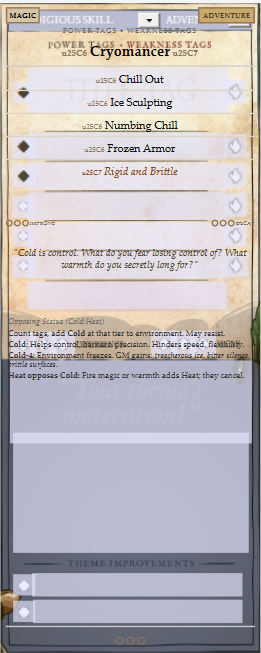
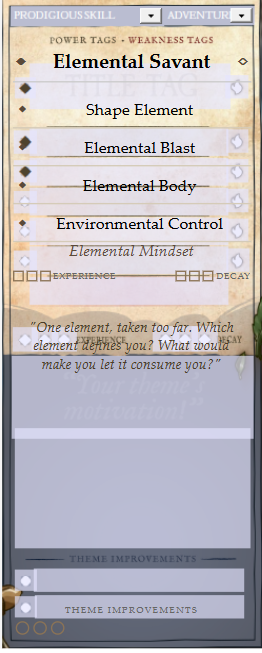
Remove diamond characters from HTML - they're in background image

diff --git a/character_themes.html b/character_themes.html
@@ -205,15 +205,13 @@
 
         <div class="theme-card">
             <div class="title-tag">
-                <span class="diamond-left">&#9670;</span>
                 Ragebound Berserker
-                <span class="diamond-right">&#9671;</span>
             </div>
             <div class="power-tags">
-                <div class="power-tag"><span class="diamond">&#9670;</span>Enraged Strength</div>
-                <div class="power-tag"><span class="diamond">&#9670;</span>Ignore Pain</div>
-                <div class="power-tag"><span class="diamond">&#9670;</span>Smash Through</div>
-                <div class="power-tag"><span class="diamond">&#9670;</span>Intimidating Presence</div>
+                <div class="power-tag">Enraged Strength</div>
+                <div class="power-tag">Ignore Pain</div>
+                <div class="power-tag">Smash Through</div>
+                <div class="power-tag">Intimidating Presence</div>
             </div>
             <div class="weakness-tag">Cannot Back Down</div>
             <div class="trackers">
@@ -241,15 +239,13 @@
 
         <div class="theme-card">
             <div class="title-tag">
-                <span class="diamond-left">&#9670;</span>
                 Chaos Channeler
-                <span class="diamond-right">&#9671;</span>
             </div>
             <div class="power-tags">
-                <div class="power-tag"><span class="diamond">&#9670;</span>Reality Glitch</div>
-                <div class="power-tag"><span class="diamond">&#9670;</span>Wild Surge</div>
-                <div class="power-tag"><span class="diamond">&#9670;</span>Unlikely Success</div>
-                <div class="power-tag"><span class="diamond">&#9670;</span>Spell Twist</div>
+                <div class="power-tag">Reality Glitch</div>
+                <div class="power-tag">Wild Surge</div>
+                <div class="power-tag">Unlikely Success</div>
+                <div class="power-tag">Spell Twist</div>
             </div>
             <div class="weakness-tag">Backfires</div>
             <div class="trackers">
@@ -277,15 +273,13 @@
 
         <div class="theme-card">
             <div class="title-tag">
-                <span class="diamond-left">&#9670;</span>
                 Cryomancer
-                <span class="diamond-right">&#9671;</span>
             </div>
             <div class="power-tags">
-                <div class="power-tag"><span class="diamond">&#9670;</span>Chill Out</div>
-                <div class="power-tag"><span class="diamond">&#9670;</span>Ice Sculpting</div>
-                <div class="power-tag"><span class="diamond">&#9670;</span>Numbing Chill</div>
-                <div class="power-tag"><span class="diamond">&#9670;</span>Frozen Armor</div>
+                <div class="power-tag">Chill Out</div>
+                <div class="power-tag">Ice Sculpting</div>
+                <div class="power-tag">Numbing Chill</div>
+                <div class="power-tag">Frozen Armor</div>
             </div>
             <div class="weakness-tag">Rigid and Brittle</div>
             <div class="trackers">
@@ -313,15 +307,13 @@
 
         <div class="theme-card">
             <div class="title-tag">
-                <span class="diamond-left">&#9670;</span>
                 Elemental Savant
-                <span class="diamond-right">&#9671;</span>
             </div>
             <div class="power-tags">
-                <div class="power-tag"><span class="diamond">&#9670;</span>Shape Element</div>
-                <div class="power-tag"><span class="diamond">&#9670;</span>Elemental Blast</div>
-                <div class="power-tag"><span class="diamond">&#9670;</span>Elemental Body</div>
-                <div class="power-tag"><span class="diamond">&#9670;</span>Environmental Control</div>
+                <div class="power-tag">Shape Element</div>
+                <div class="power-tag">Elemental Blast</div>
+                <div class="power-tag">Elemental Body</div>
+                <div class="power-tag">Environmental Control</div>
             </div>
             <div class="weakness-tag">Elemental Mindset</div>
             <div class="trackers">
@@ -349,15 +341,13 @@
 
         <div class="theme-card">
             <div class="title-tag">
-                <span class="diamond-left">&#9670;</span>
                 Name-Binder
-                <span class="diamond-right">&#9671;</span>
             </div>
             <div class="power-tags">
-                <div class="power-tag"><span class="diamond">&#9670;</span>True Name</div>
-                <div class="power-tag"><span class="diamond">&#9670;</span>Rename the World</div>
-                <div class="power-tag"><span class="diamond">&#9670;</span>Words That Cut</div>
-                <div class="power-tag"><span class="diamond">&#9670;</span>Naming Curse</div>
+                <div class="power-tag">True Name</div>
+                <div class="power-tag">Rename the World</div>
+                <div class="power-tag">Words That Cut</div>
+                <div class="power-tag">Naming Curse</div>
             </div>
             <div class="weakness-tag">Names Stick</div>
             <div class="trackers">
@@ -385,15 +375,13 @@
 
         <div class="theme-card">
             <div class="title-tag">
-                <span class="diamond-left">&#9670;</span>
                 Songweaver
-                <span class="diamond-right">&#9671;</span>
             </div>
             <div class="power-tags">
-                <div class="power-tag"><span class="diamond">&#9670;</span>Battle Rhythm</div>
-                <div class="power-tag"><span class="diamond">&#9670;</span>Lullaby</div>
-                <div class="power-tag"><span class="diamond">&#9670;</span>Crescendo</div>
-                <div class="power-tag"><span class="diamond">&#9670;</span>Sonic Pulse</div>
+                <div class="power-tag">Battle Rhythm</div>
+                <div class="power-tag">Lullaby</div>
+                <div class="power-tag">Crescendo</div>
+                <div class="power-tag">Sonic Pulse</div>
             </div>
             <div class="weakness-tag">Needs to Be Heard</div>
             <div class="trackers">
@@ -421,15 +409,13 @@
 
         <div class="theme-card">
             <div class="title-tag">
-                <span class="diamond-left">&#9670;</span>
                 Singing Sword
-                <span class="diamond-right">&#9671;</span>
             </div>
             <div class="power-tags">
-                <div class="power-tag"><span class="diamond">&#9670;</span>Dissonant Howl</div>
-                <div class="power-tag"><span class="diamond">&#9670;</span>Rhythmic Strike</div>
-                <div class="power-tag"><span class="diamond">&#9670;</span>Echoing Parry</div>
-                <div class="power-tag"><span class="diamond">&#9670;</span>Resonant Cleave</div>
+                <div class="power-tag">Dissonant Howl</div>
+                <div class="power-tag">Rhythmic Strike</div>
+                <div class="power-tag">Echoing Parry</div>
+                <div class="power-tag">Resonant Cleave</div>
             </div>
             <div class="weakness-tag">The Sword Has Opinions</div>
             <div class="trackers">
@@ -457,15 +443,13 @@
 
         <div class="theme-card">
             <div class="title-tag">
-                <span class="diamond-left">&#9670;</span>
                 Beast Controller
-                <span class="diamond-right">&#9671;</span>
             </div>
             <div class="power-tags">
-                <div class="power-tag"><span class="diamond">&#9670;</span>Monstrous Companion</div>
-                <div class="power-tag"><span class="diamond">&#9670;</span>Shared Senses</div>
-                <div class="power-tag"><span class="diamond">&#9670;</span>Coordinated Assault</div>
-                <div class="power-tag"><span class="diamond">&#9670;</span>Devastating Charge</div>
+                <div class="power-tag">Monstrous Companion</div>
+                <div class="power-tag">Shared Senses</div>
+                <div class="power-tag">Coordinated Assault</div>
+                <div class="power-tag">Devastating Charge</div>
             </div>
             <div class="weakness-tag">The Beast Is Willful</div>
             <div class="trackers">
@@ -493,15 +477,13 @@
 
         <div class="theme-card">
             <div class="title-tag">
-                <span class="diamond-left">&#9670;</span>
                 Beast-Hearted
-                <span class="diamond-right">&#9671;</span>
             </div>
             <div class="power-tags">
-                <div class="power-tag"><span class="diamond">&#9670;</span>Bestial Strength</div>
-                <div class="power-tag"><span class="diamond">&#9670;</span>Heightened Senses</div>
-                <div class="power-tag"><span class="diamond">&#9670;</span>Savage Leap</div>
-                <div class="power-tag"><span class="diamond">&#9670;</span>Predator's Instinct</div>
+                <div class="power-tag">Bestial Strength</div>
+                <div class="power-tag">Heightened Senses</div>
+                <div class="power-tag">Savage Leap</div>
+                <div class="power-tag">Predator's Instinct</div>
             </div>
             <div class="weakness-tag">Easily Provoked</div>
             <div class="trackers">
@@ -529,15 +511,13 @@
 
         <div class="theme-card">
             <div class="title-tag">
-                <span class="diamond-left">&#9670;</span>
                 Spirit Speaker
-                <span class="diamond-right">&#9671;</span>
             </div>
             <div class="power-tags">
-                <div class="power-tag"><span class="diamond">&#9670;</span>Call Spirits</div>
-                <div class="power-tag"><span class="diamond">&#9670;</span>Spirit Sight</div>
-                <div class="power-tag"><span class="diamond">&#9670;</span>Bargain with the Unseen</div>
-                <div class="power-tag"><span class="diamond">&#9670;</span>Channel Power</div>
+                <div class="power-tag">Call Spirits</div>
+                <div class="power-tag">Spirit Sight</div>
+                <div class="power-tag">Bargain with the Unseen</div>
+                <div class="power-tag">Channel Power</div>
             </div>
             <div class="weakness-tag">Haunted</div>
             <div class="trackers">
@@ -565,15 +545,13 @@
 
         <div class="theme-card">
             <div class="title-tag">
-                <span class="diamond-left">&#9670;</span>
                 Doppelganger
-                <span class="diamond-right">&#9671;</span>
             </div>
             <div class="power-tags">
-                <div class="power-tag"><span class="diamond">&#9670;</span>Perfect Mimicry</div>
-                <div class="power-tag"><span class="diamond">&#9670;</span>Borrowed Faces</div>
-                <div class="power-tag"><span class="diamond">&#9670;</span>Social Infiltration</div>
-                <div class="power-tag"><span class="diamond">&#9670;</span>Voice and Mannerisms</div>
+                <div class="power-tag">Perfect Mimicry</div>
+                <div class="power-tag">Borrowed Faces</div>
+                <div class="power-tag">Social Infiltration</div>
+                <div class="power-tag">Voice and Mannerisms</div>
             </div>
             <div class="weakness-tag">Identity Drift</div>
             <div class="trackers">
@@ -601,15 +579,13 @@
 
         <div class="theme-card">
             <div class="title-tag">
-                <span class="diamond-left">&#9670;</span>
                 Impossible Merchant
-                <span class="diamond-right">&#9671;</span>
             </div>
             <div class="power-tags">
-                <div class="power-tag"><span class="diamond">&#9670;</span>Produce Anything</div>
-                <div class="power-tag"><span class="diamond">&#9670;</span>Make a Deal</div>
-                <div class="power-tag"><span class="diamond">&#9670;</span>Twist the Fine Print</div>
-                <div class="power-tag"><span class="diamond">&#9670;</span>Unexpected Inventory</div>
+                <div class="power-tag">Produce Anything</div>
+                <div class="power-tag">Make a Deal</div>
+                <div class="power-tag">Twist the Fine Print</div>
+                <div class="power-tag">Unexpected Inventory</div>
             </div>
             <div class="weakness-tag">Owed Favors</div>
             <div class="trackers">
@@ -637,15 +613,13 @@
 
         <div class="theme-card">
             <div class="title-tag">
-                <span class="diamond-left">&#9670;</span>
                 Mirror Adept
-                <span class="diamond-right">&#9671;</span>
             </div>
             <div class="power-tags">
-                <div class="power-tag"><span class="diamond">&#9670;</span>Create Reflections</div>
-                <div class="power-tag"><span class="diamond">&#9670;</span>Swap Places</div>
-                <div class="power-tag"><span class="diamond">&#9670;</span>Reflect Attacks</div>
-                <div class="power-tag"><span class="diamond">&#9670;</span>Mirror Step</div>
+                <div class="power-tag">Create Reflections</div>
+                <div class="power-tag">Swap Places</div>
+                <div class="power-tag">Reflect Attacks</div>
+                <div class="power-tag">Mirror Step</div>
             </div>
             <div class="weakness-tag">Fragile Anchors</div>
             <div class="trackers">
@@ -673,15 +647,13 @@
 
         <div class="theme-card">
             <div class="title-tag">
-                <span class="diamond-left">&#9670;</span>
                 Shadowbound
-                <span class="diamond-right">&#9671;</span>
             </div>
             <div class="power-tags">
-                <div class="power-tag"><span class="diamond">&#9670;</span>Melt into Darkness</div>
-                <div class="power-tag"><span class="diamond">&#9670;</span>Shadow Strike</div>
-                <div class="power-tag"><span class="diamond">&#9670;</span>Umbral Escape</div>
-                <div class="power-tag"><span class="diamond">&#9670;</span>Cloak of Gloom</div>
+                <div class="power-tag">Melt into Darkness</div>
+                <div class="power-tag">Shadow Strike</div>
+                <div class="power-tag">Umbral Escape</div>
+                <div class="power-tag">Cloak of Gloom</div>
             </div>
             <div class="weakness-tag">Light Burns</div>
             <div class="trackers">
@@ -709,15 +681,13 @@
 
         <div class="theme-card">
             <div class="title-tag">
-                <span class="diamond-left">&#9670;</span>
                 Blood of Giants
-                <span class="diamond-right">&#9671;</span>
             </div>
             <div class="power-tags">
-                <div class="power-tag"><span class="diamond">&#9670;</span>Titanic Strength</div>
-                <div class="power-tag"><span class="diamond">&#9670;</span>Earth-Shaking Blows</div>
-                <div class="power-tag"><span class="diamond">&#9670;</span>Unstoppable Advance</div>
-                <div class="power-tag"><span class="diamond">&#9670;</span>Towering Presence</div>
+                <div class="power-tag">Titanic Strength</div>
+                <div class="power-tag">Earth-Shaking Blows</div>
+                <div class="power-tag">Unstoppable Advance</div>
+                <div class="power-tag">Towering Presence</div>
             </div>
             <div class="weakness-tag">Big Target</div>
             <div class="trackers">
@@ -745,15 +715,13 @@
 
         <div class="theme-card">
             <div class="title-tag">
-                <span class="diamond-left">&#9670;</span>
                 Iron Defender
-                <span class="diamond-right">&#9671;</span>
             </div>
             <div class="power-tags">
-                <div class="power-tag"><span class="diamond">&#9670;</span>Shield Wall</div>
-                <div class="power-tag"><span class="diamond">&#9670;</span>Hold the Line</div>
-                <div class="power-tag"><span class="diamond">&#9670;</span>Bodyguard</div>
-                <div class="power-tag"><span class="diamond">&#9670;</span>Brace for Impact</div>
+                <div class="power-tag">Shield Wall</div>
+                <div class="power-tag">Hold the Line</div>
+                <div class="power-tag">Bodyguard</div>
+                <div class="power-tag">Brace for Impact</div>
             </div>
             <div class="weakness-tag">Slow to Reposition</div>
             <div class="trackers">
@@ -781,15 +749,13 @@
 
         <div class="theme-card">
             <div class="title-tag">
-                <span class="diamond-left">&#9670;</span>
                 Pyromancer
-                <span class="diamond-right">&#9671;</span>
             </div>
             <div class="power-tags">
-                <div class="power-tag"><span class="diamond">&#9670;</span>Inferno Burst</div>
-                <div class="power-tag"><span class="diamond">&#9670;</span>Living Flame</div>
-                <div class="power-tag"><span class="diamond">&#9670;</span>Fire Immunity</div>
-                <div class="power-tag"><span class="diamond">&#9670;</span>Explosive Spread</div>
+                <div class="power-tag">Inferno Burst</div>
+                <div class="power-tag">Living Flame</div>
+                <div class="power-tag">Fire Immunity</div>
+                <div class="power-tag">Explosive Spread</div>
             </div>
             <div class="weakness-tag">Everything Burns</div>
             <div class="trackers">
@@ -817,15 +783,13 @@
 
         <div class="theme-card">
             <div class="title-tag">
-                <span class="diamond-left">&#9670;</span>
                 Trick-Spark
-                <span class="diamond-right">&#9671;</span>
             </div>
             <div class="power-tags">
-                <div class="power-tag"><span class="diamond">&#9670;</span>Illusions</div>
-                <div class="power-tag"><span class="diamond">&#9670;</span>Sudden Bursts</div>
-                <div class="power-tag"><span class="diamond">&#9670;</span>Misdirection</div>
-                <div class="power-tag"><span class="diamond">&#9670;</span>Spell Pranks</div>
+                <div class="power-tag">Illusions</div>
+                <div class="power-tag">Sudden Bursts</div>
+                <div class="power-tag">Misdirection</div>
+                <div class="power-tag">Spell Pranks</div>
             </div>
             <div class="weakness-tag">Unreliable</div>
             <div class="trackers">
@@ -853,15 +817,13 @@
 
         <div class="theme-card">
             <div class="title-tag">
-                <span class="diamond-left">&#9670;</span>
                 Fey-Touched Duelist
-                <span class="diamond-right">&#9671;</span>
             </div>
             <div class="power-tags">
-                <div class="power-tag"><span class="diamond">&#9670;</span>Blink Step</div>
-                <div class="power-tag"><span class="diamond">&#9670;</span>Enchanted Weapon</div>
-                <div class="power-tag"><span class="diamond">&#9670;</span>Impossible Grace</div>
-                <div class="power-tag"><span class="diamond">&#9670;</span>Duelist's Precision</div>
+                <div class="power-tag">Blink Step</div>
+                <div class="power-tag">Enchanted Weapon</div>
+                <div class="power-tag">Impossible Grace</div>
+                <div class="power-tag">Duelist's Precision</div>
             </div>
             <div class="weakness-tag">Bound by Promises</div>
             <div class="trackers">
@@ -889,15 +851,13 @@
 
         <div class="theme-card">
             <div class="title-tag">
-                <span class="diamond-left">&#9670;</span>
                 Living Shadow
-                <span class="diamond-right">&#9671;</span>
             </div>
             <div class="power-tags">
-                <div class="power-tag"><span class="diamond">&#9670;</span>Detach from Body</div>
-                <div class="power-tag"><span class="diamond">&#9670;</span>Shadow Tendrils</div>
-                <div class="power-tag"><span class="diamond">&#9670;</span>Darkvision Everywhere</div>
-                <div class="power-tag"><span class="diamond">&#9670;</span>Slip Through Cracks</div>
+                <div class="power-tag">Detach from Body</div>
+                <div class="power-tag">Shadow Tendrils</div>
+                <div class="power-tag">Darkvision Everywhere</div>
+                <div class="power-tag">Slip Through Cracks</div>
             </div>
             <div class="weakness-tag">Tethered to Darkness</div>
             <div class="trackers">
